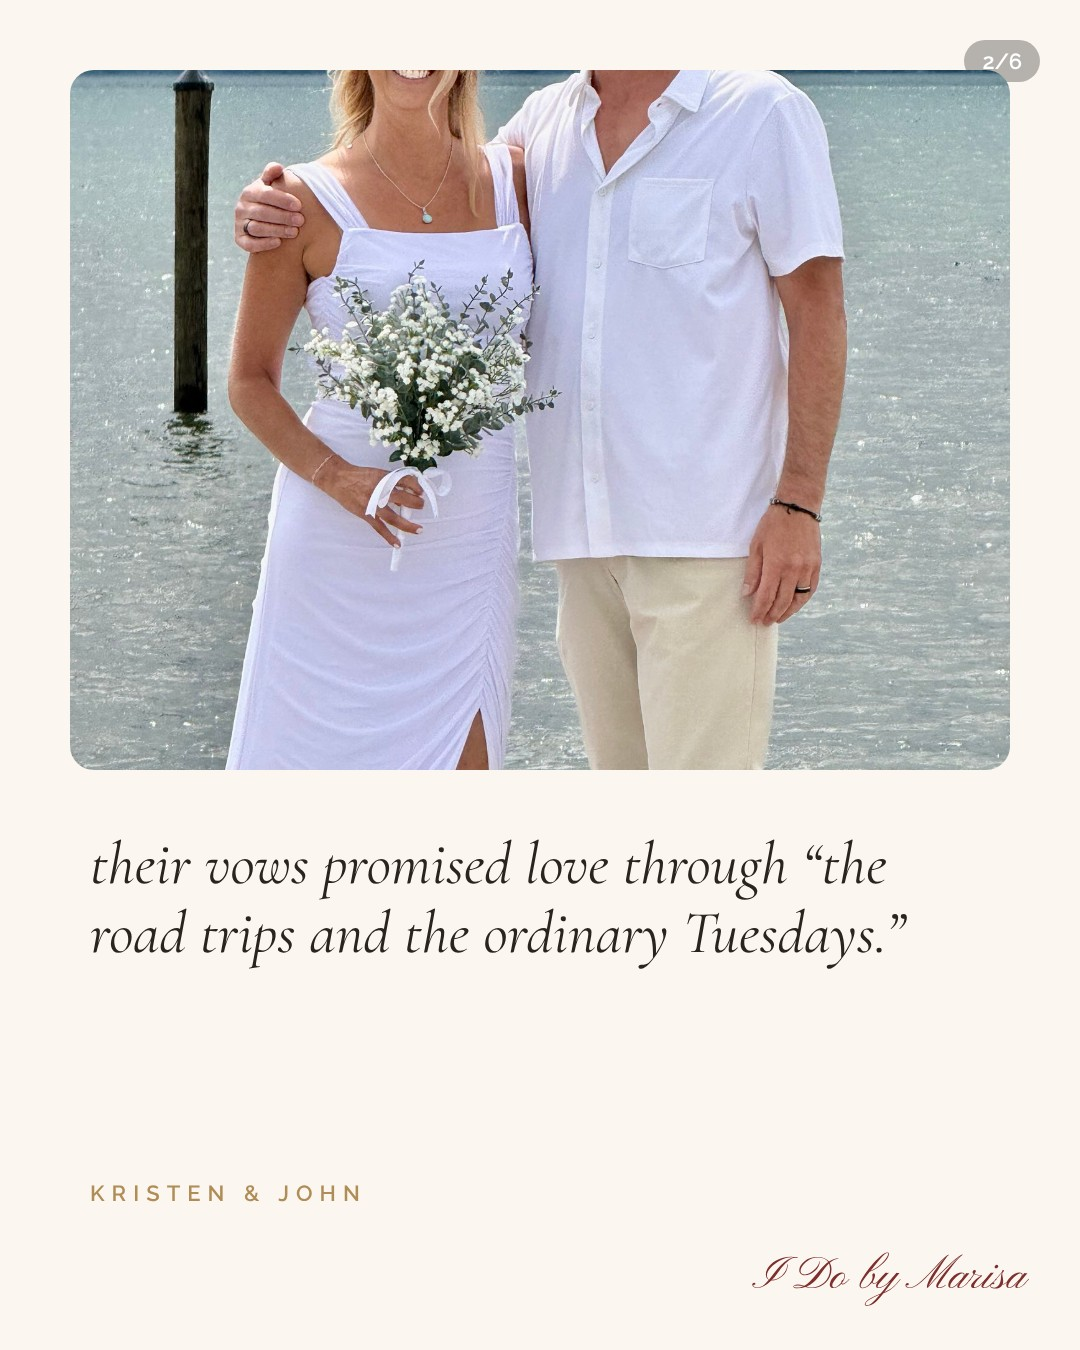
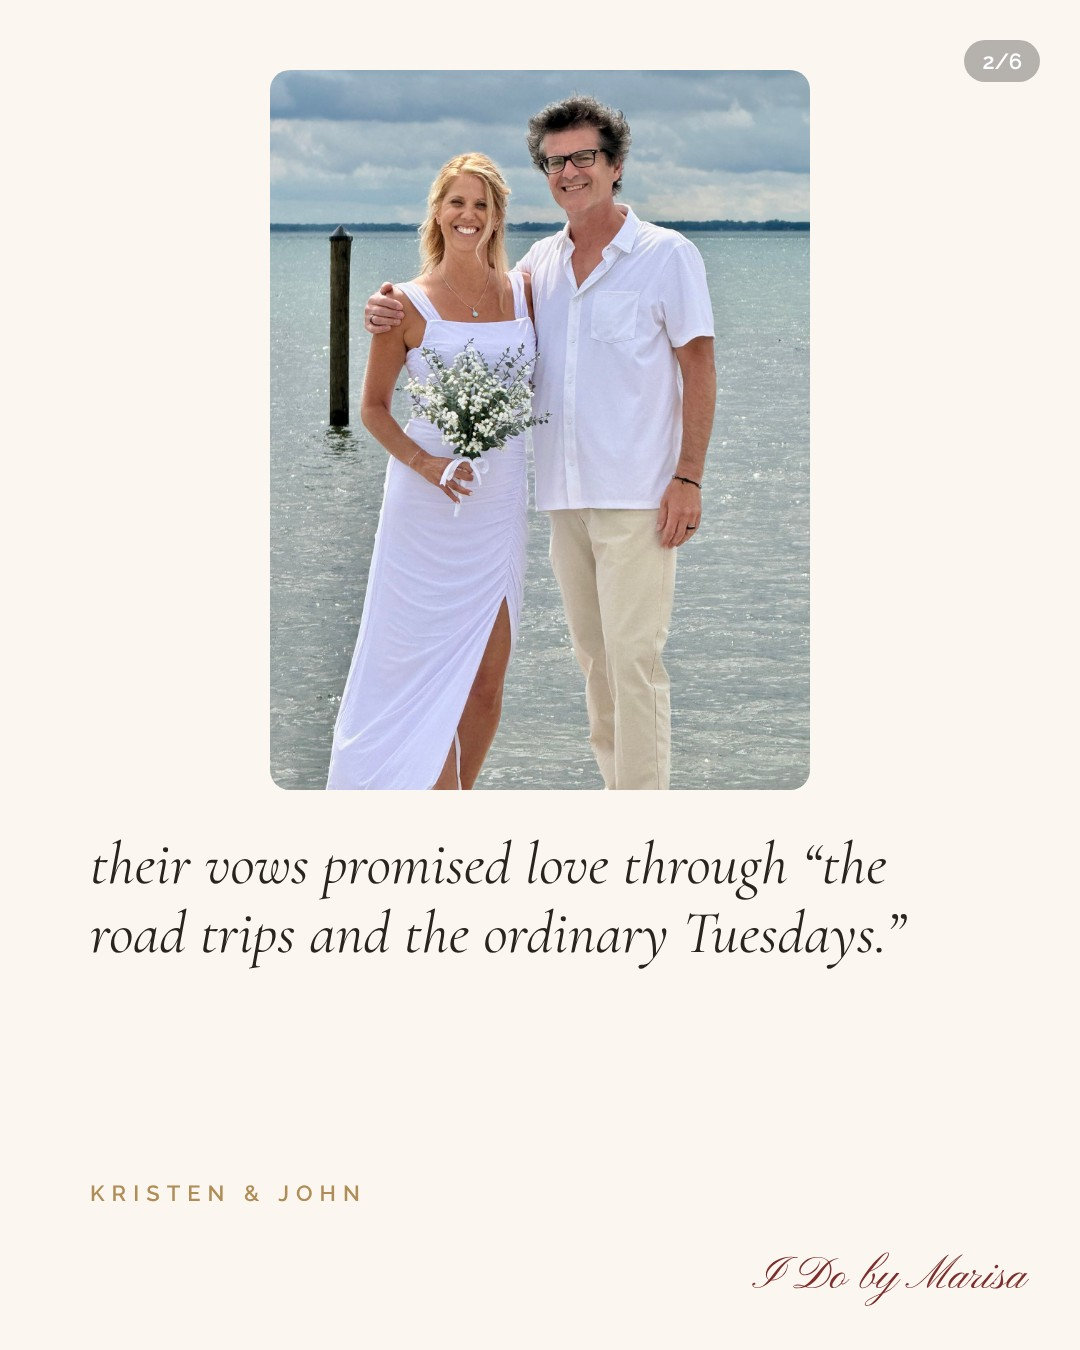
I Do: show full photos (no cropped heads) on hello, things-I-loved, profile and 2026 lines slides
Claude-Session: https://claude.ai/code/session_01CeoovJ21APbX2P2SCMoWFW

diff --git a/ido_cool/more/more.html b/ido_cool/more/more.html
@@ -13,7 +13,7 @@
 .dk .t{position:absolute;left:0;right:0;top:560px;font:italic 400 92px 'Cormorant Garamond'}
 .dk .sub{position:absolute;left:140px;right:140px;top:760px;font:400 34px/1.5 'Raleway';color:#d8cfc4}
 .ln{background:var(--cream)}
-.ln .ph{position:absolute;left:70px;right:70px;top:70px;height:700px;border-radius:24px;background-size:cover;background-position:center}
+.ln .ph{position:absolute;left:70px;right:70px;top:70px;height:720px;display:flex;align-items:center;justify-content:center}.ln .ph img{max-width:100%;max-height:100%;border-radius:20px}
 .ln .q{position:absolute;left:90px;right:90px;top:830px;font:italic 400 60px/1.15 'Cormorant Garamond'}
 .ln .who{position:absolute;left:90px;top:1180px;color:var(--gold)}
 .ln .mark{color:var(--wine)}
@@ -37,4 +37,4 @@
 .la .card small{margin-top:36px;color:var(--gold)}
 .la .foot{position:absolute;left:0;right:0;top:1100px;font:400 32px 'Raleway';color:#6d5d55}
 .la .mark{color:var(--wine)}
-</style></head><body><section class="s dk" id="lines0"><p class="y">2026</p><p class="t">in a few lines</p><p class="sub">a handful of my favorite lines from this year’s ceremonies, shared with the couples’ blessing 🤍</p><div class="mark" style="color:#D9C08F">I Do by Marisa</div></section><section class="s ln" id="lines1"><div class="n">2/6</div><div class="ph" style="background-image:url(img/kj.jpg);background-position:center"></div><p class="q">their vows promised love through “the road trips and the ordinary Tuesdays.”</p><p class="cap who">Kristen &amp; John</p><div class="mark">I Do by Marisa</div></section><section class="s ln" id="lines2"><div class="n">3/6</div><div class="ph" style="background-image:url(img/ar.jpg);background-position:center top"></div><p class="q">a forgotten shuttle, a missed ferry, and a Tigers playoff game. never the plan. always better.</p><p class="cap who">Amber &amp; Ryan</p><div class="mark">I Do by Marisa</div></section><section class="s ln" id="lines3"><div class="n">4/6</div><div class="ph" style="background-image:url(img/aa.jpg);background-position:center"></div><p class="q">her parents and both sets of her grandparents were married this same weekend. now it’s theirs too.</p><p class="cap who">Avance &amp; Alex</p><div class="mark">I Do by Marisa</div></section><section class="s ln" id="lines4"><div class="n">5/6</div><div class="ph" style="background-image:url(img/cd.jpg);background-position:center"></div><p class="q">in their world, a pinky promise is binding. (exceptions for gifts and surprises only.)</p><p class="cap who">Catherine &amp; David</p><div class="mark">I Do by Marisa</div></section><section class="s dk" id="lines5"><p class="t" style="top:330px">your story</p><p class="y" style="top:450px;font-size:200px">is next</p><p class="sub" style="top:820px">booking 2027 weddings in Metro Detroit, and ceremony scripts anywhere. i marry you, or i write the words for the friend who does.</p><div class="mark" style="color:#D9C08F">I Do by Marisa</div></section><section class="s cv" id="aecover"><div class="bg" style="background-image:url(img/book1.jpg)"></div><div class="fade"></div><div class="ttl"><p class="cap k">issue no. 01</p><p class="h">the Altar Edit</p><p class="d">what’s happening in weddings,<br>and what it means for your ceremony</p></div><div class="mark">I Do by Marisa</div></section><section class="s pn" id="tuecover"><div class="bg" style="background-image:url(img/book2.jpg);background-position:center 70%"></div><div class="panel"><p class="cap k">a new vow prompt every tuesday</p><p class="h" style="font-size:92px">Write about a Tuesday</p><p class="d">screenshot it · write 3 sentences · save them for your vows</p></div><div class="mark">I Do by Marisa</div></section><section class="s pn tall" id="bagcover"><div class="bg" style="background-image:url(img/bookcert.jpg)"></div><div class="panel"><p class="cap k">officiant edition</p><p class="h">what’s in my bag</p><p class="d">everything i bring to your ceremony</p></div><div class="mark" style="bottom:240px">I Do by Marisa</div></section><section class="s la" id="lisa"><p class="nm">Lisa Marie &amp; Anthony</p><p class="cap k">a gazebo · a september afternoon</p><div class="card"><p>no aisle, no music, no big production. they walked up holding hands, both in Chuck Taylors.</p><small class="cap">“it took us fifty years to find each other.” · Anthony</small></div><p class="foot">every word of this ceremony came from their story</p><div class="mark">I Do by Marisa</div></section></body></html>
+</style></head><body><section class="s dk" id="lines0"><p class="y">2026</p><p class="t">in a few lines</p><p class="sub">a handful of my favorite lines from this year’s ceremonies, shared with the couples’ blessing 🤍</p><div class="mark" style="color:#D9C08F">I Do by Marisa</div></section><section class="s ln" id="lines1"><div class="n">2/6</div><div class="ph"><img src="img/kj.jpg"></div><p class="q">their vows promised love through “the road trips and the ordinary Tuesdays.”</p><p class="cap who">Kristen &amp; John</p><div class="mark">I Do by Marisa</div></section><section class="s ln" id="lines2"><div class="n">3/6</div><div class="ph"><img src="img/ar.jpg"></div><p class="q">a forgotten shuttle, a missed ferry, and a Tigers playoff game. never the plan. always better.</p><p class="cap who">Amber &amp; Ryan</p><div class="mark">I Do by Marisa</div></section><section class="s ln" id="lines3"><div class="n">4/6</div><div class="ph"><img src="img/aa.jpg"></div><p class="q">her parents and both sets of her grandparents were married this same weekend. now it’s theirs too.</p><p class="cap who">Avance &amp; Alex</p><div class="mark">I Do by Marisa</div></section><section class="s ln" id="lines4"><div class="n">5/6</div><div class="ph"><img src="img/cd.jpg"></div><p class="q">in their world, a pinky promise is binding. (exceptions for gifts and surprises only.)</p><p class="cap who">Catherine &amp; David</p><div class="mark">I Do by Marisa</div></section><section class="s dk" id="lines5"><p class="t" style="top:330px">your story</p><p class="y" style="top:450px;font-size:200px">is next</p><p class="sub" style="top:820px">booking 2027 weddings in Metro Detroit, and ceremony scripts anywhere. i marry you, or i write the words for the friend who does.</p><div class="mark" style="color:#D9C08F">I Do by Marisa</div></section><section class="s cv" id="aecover"><div class="bg" style="background-image:url(img/book1.jpg)"></div><div class="fade"></div><div class="ttl"><p class="cap k">issue no. 01</p><p class="h">the Altar Edit</p><p class="d">what’s happening in weddings,<br>and what it means for your ceremony</p></div><div class="mark">I Do by Marisa</div></section><section class="s pn" id="tuecover"><div class="bg" style="background-image:url(img/book2.jpg);background-position:center 70%"></div><div class="panel"><p class="cap k">a new vow prompt every tuesday</p><p class="h" style="font-size:92px">Write about a Tuesday</p><p class="d">screenshot it · write 3 sentences · save them for your vows</p></div><div class="mark">I Do by Marisa</div></section><section class="s pn tall" id="bagcover"><div class="bg" style="background-image:url(img/bookcert.jpg)"></div><div class="panel"><p class="cap k">officiant edition</p><p class="h">what’s in my bag</p><p class="d">everything i bring to your ceremony</p></div><div class="mark" style="bottom:240px">I Do by Marisa</div></section><section class="s la" id="lisa"><p class="nm">Lisa Marie &amp; Anthony</p><p class="cap k">a gazebo · a september afternoon</p><div class="card"><p>no aisle, no music, no big production. they walked up holding hands, both in Chuck Taylors.</p><small class="cap">“it took us fifty years to find each other.” · Anthony</small></div><p class="foot">every word of this ceremony came from their story</p><div class="mark">I Do by Marisa</div></section></body></html>

diff --git a/ido_cool/trend2.html b/ido_cool/trend2.html
@@ -8,12 +8,12 @@
 .pf{background:var(--blush);padding:56px 70px}
 .pf .logo{bottom:14px}
 .pf .name{font:600 64px 'Raleway';letter-spacing:-.01em;margin:0}
-.pf .ph{height:380px;border-radius:30px;margin:26px 0 22px;background:repeating-linear-gradient(120deg,#d9c3bb 0 30px,#e4cfc8 30px 60px);display:flex;align-items:center;justify-content:center;font:600 24px 'Raleway';letter-spacing:.2em;color:#8a6f66}
+.pf .ph{height:470px;border-radius:30px;margin:26px 0 22px;background:repeating-linear-gradient(120deg,#d9c3bb 0 30px,#e4cfc8 30px 60px);display:flex;align-items:center;justify-content:center;font:600 24px 'Raleway';letter-spacing:.2em;color:#8a6f66}
 .chips{display:flex;flex-wrap:wrap;gap:12px;margin-bottom:22px}
 .chips span{background:#fff;border-radius:999px;padding:12px 22px;font:500 24px 'Raleway'}
-.card{background:#fff;border-radius:30px;padding:28px 36px;margin-bottom:18px;position:relative}
+.card{background:#fff;border-radius:30px;padding:20px 34px;margin-bottom:14px;position:relative}
 .card b{display:block;font:600 22px 'Raleway';margin-bottom:8px}
-.card p{margin:0;font:400 44px/1.12 'Cormorant Garamond'}
+.card p{margin:0;padding-right:70px;font:400 38px/1.1 'Cormorant Garamond'}
 .card i{position:absolute;right:26px;bottom:20px;width:56px;height:56px;border-radius:50%;border:2px solid var(--wine);color:var(--wine);display:grid;place-items:center;font:normal 30px 'Raleway'}
 /* flags */
 .fl{background:var(--cream);padding:80px 70px}
@@ -38,4 +38,4 @@
 .op p{margin:0 0 46px;font:400 52px/1.15 'Cormorant Garamond';padding-left:66px;position:relative}
 .op p::before{content:'🔥';position:absolute;left:0;top:2px;font-size:36px}
 .op .logo{color:var(--gold2)}
-</style></head><body><section class="s pf" id="profile"><p class="name">Marisa, your officiant</p><div class="ph" style="background:url(photos/me/officiant_01.jpg) center 22%/cover"></div><div class="chips"><span>📍 Metro Detroit</span><span>💍 Ordained minister</span><span>🎤 Officiant</span><span>✍ Ceremony writer</span></div><div class="card"><b>My simple pleasures</b><p>a 20-minute ceremony, a script in 14-point font, the pause right after the kiss</p><i>♡</i></div><div class="card"><b>I’ll fall for you if</b><p>you tell me about a random Tuesday</p><i>♡</i></div><div class="card"><b>Together, we could</b><p>write your ceremony. then i marry you, or coach the friend who does.</p><i>♡</i></div><div class="logo">I Do by Marisa</div></section><section class="s fl" id="flags"><div class="cap" style="color:var(--gold);margin:0 0 16px">officiant edition</div><h1>green flags,<br>red flags</h1><div class="two"><div class="g"><h2>GREEN FLAGS</h2><p>asks how you met before anything else</p><p>times the ceremony to the minute</p><p>practices out loud (twice)</p><p>brings a printed script</p><p>knows how to pronounce every name</p></div><div class="r"><h2>RED FLAGS</h2><p>your names swapped into a template</p><p>reads off their phone</p><p>makes it about themselves</p><p>“dearly beloved” three times</p><p>wings it</p></div></div><div class="logo">I Do by Marisa</div></section><section class="s bg" id="bingo"><h1>ceremony bingo</h1><div class="cap sub">screenshot it · bring it to your next wedding</div><div class="board"><div>someone cries before the processional</div><div>the ring bearer goes rogue</div><div>dad cries first</div><div>a phone goes off</div><div>wind vs. the veil</div><div>flower girl stops mid-aisle</div><div>groom’s voice cracks</div><div>someone says “dearly beloved”</div><div>a guest whispers “aww” too loud</div><div>the officiant gets a laugh</div><div>a dog in the wedding</div><div>mom’s tissue is already out</div><div class="fr">I do</div><div>someone forgot the rings were in their pocket</div><div>perfect golden hour light</div><div>the kiss gets a standing ovation</div><div>a toddler narrates</div><div>vows that mention a tuesday</div><div>the couple whispers a secret joke</div><div>grandma steals the show</div><div>happy tears from the officiant</div><div>someone trips (gracefully)</div><div>the “i do” cracks the room up</div><div>the recessional dance</div><div>everyone cries. everyone.</div></div><div class="logo" style="bottom:28px">I Do by Marisa</div></section><section class="s op" id="opinions"><div class="cap" style="color:var(--gold2);margin:0 0 18px">officiant edition</div><h1>unpopular<br><span>opinions</span></h1><p>your ceremony should be shorter than your cocktail hour</p><p>vows are allowed to be funny</p><p>you don’t need a unity anything</p><p>the processional song matters more than the centerpieces</p><p>your officiant should know your story, not just your names</p><div class="logo">I Do by Marisa</div></section></body></html>
+</style></head><body><section class="s pf" id="profile"><p class="name">Marisa, your officiant</p><div class="ph" style="background:url(photos/me/officiant_01.jpg) center 12%/cover"></div><div class="chips"><span>📍 Metro Detroit</span><span>💍 Ordained minister</span><span>🎤 Officiant</span><span>✍ Ceremony writer</span></div><div class="card"><b>My simple pleasures</b><p>a 20-minute ceremony, a script in 14-point font, the pause right after the kiss</p><i>♡</i></div><div class="card"><b>I’ll fall for you if</b><p>you tell me about a random Tuesday</p><i>♡</i></div><div class="card"><b>Together, we could</b><p>write your ceremony. then i marry you, or coach the friend who does.</p><i>♡</i></div><div class="logo">I Do by Marisa</div></section><section class="s fl" id="flags"><div class="cap" style="color:var(--gold);margin:0 0 16px">officiant edition</div><h1>green flags,<br>red flags</h1><div class="two"><div class="g"><h2>GREEN FLAGS</h2><p>asks how you met before anything else</p><p>times the ceremony to the minute</p><p>practices out loud (twice)</p><p>brings a printed script</p><p>knows how to pronounce every name</p></div><div class="r"><h2>RED FLAGS</h2><p>your names swapped into a template</p><p>reads off their phone</p><p>makes it about themselves</p><p>“dearly beloved” three times</p><p>wings it</p></div></div><div class="logo">I Do by Marisa</div></section><section class="s bg" id="bingo"><h1>ceremony bingo</h1><div class="cap sub">screenshot it · bring it to your next wedding</div><div class="board"><div>someone cries before the processional</div><div>the ring bearer goes rogue</div><div>dad cries first</div><div>a phone goes off</div><div>wind vs. the veil</div><div>flower girl stops mid-aisle</div><div>groom’s voice cracks</div><div>someone says “dearly beloved”</div><div>a guest whispers “aww” too loud</div><div>the officiant gets a laugh</div><div>a dog in the wedding</div><div>mom’s tissue is already out</div><div class="fr">I do</div><div>someone forgot the rings were in their pocket</div><div>perfect golden hour light</div><div>the kiss gets a standing ovation</div><div>a toddler narrates</div><div>vows that mention a tuesday</div><div>the couple whispers a secret joke</div><div>grandma steals the show</div><div>happy tears from the officiant</div><div>someone trips (gracefully)</div><div>the “i do” cracks the room up</div><div>the recessional dance</div><div>everyone cries. everyone.</div></div><div class="logo" style="bottom:28px">I Do by Marisa</div></section><section class="s op" id="opinions"><div class="cap" style="color:var(--gold2);margin:0 0 18px">officiant edition</div><h1>unpopular<br><span>opinions</span></h1><p>your ceremony should be shorter than your cocktail hour</p><p>vows are allowed to be funny</p><p>you don’t need a unity anything</p><p>the processional song matters more than the centerpieces</p><p>your officiant should know your story, not just your names</p><div class="logo">I Do by Marisa</div></section></body></html>

diff --git a/ido_cool/me_posts.html b/ido_cool/me_posts.html
@@ -1,7 +1,8 @@
 <!doctype html><html><head><meta charset="utf-8"><link href="https://fonts.googleapis.com/css2?family=Pinyon+Script&display=swap" rel="stylesheet"><style>
-body{margin:0}.s{width:1080px;height:1350px;position:relative;overflow:hidden;background-size:cover;background-position:center 30%}
-.logo{position:absolute;right:48px;bottom:34px;font:400 46px 'Pinyon Script';color:#FBF7F0;text-shadow:0 1px 10px rgba(0,0,0,.35)}
+body{margin:0}.s{width:1080px;height:1350px;position:relative;overflow:hidden;background:#FBF7F0;display:flex;align-items:flex-start;justify-content:center;padding-top:50px}
+.s img{width:930px;border-radius:18px}
+.logo{position:absolute;right:56px;bottom:30px;font:400 46px 'Pinyon Script';color:#7E2E2C}
 </style></head><body>
-<section class="s" id="hello" style="background-image:url(photos/me/officiant_12.jpg);background-position:center 0%"><div class="logo">I Do by Marisa</div></section>
-<section class="s" id="loved" style="background-image:url(photos/me/officiant_07.jpg);background-position:center 20%"><div class="logo">I Do by Marisa</div></section>
+<section class="s" id="hello"><img src="photos/me/officiant_12.jpg"><div class="logo">I Do by Marisa</div></section>
+<section class="s" id="loved"><img src="photos/me/officiant_07.jpg"><div class="logo">I Do by Marisa</div></section>
 </body></html>

diff --git a/ido_cool/more/build.py b/ido_cool/more/build.py
@@ -16,7 +16,7 @@ CSS = """*{box-sizing:border-box}body{margin:0;background:#777}p{margin:0}
 .dk .t{position:absolute;left:0;right:0;top:560px;font:italic 400 92px 'Cormorant Garamond'}
 .dk .sub{position:absolute;left:140px;right:140px;top:760px;font:400 34px/1.5 'Raleway';color:#d8cfc4}
 .ln{background:var(--cream)}
-.ln .ph{position:absolute;left:70px;right:70px;top:70px;height:700px;border-radius:24px;background-size:cover;background-position:center}
+.ln .ph{position:absolute;left:70px;right:70px;top:70px;height:720px;display:flex;align-items:center;justify-content:center}.ln .ph img{max-width:100%;max-height:100%;border-radius:20px}
 .ln .q{position:absolute;left:90px;right:90px;top:830px;font:italic 400 60px/1.15 'Cormorant Garamond'}
 .ln .who{position:absolute;left:90px;top:1180px;color:var(--gold)}
 .ln .mark{color:var(--wine)}
@@ -50,7 +50,7 @@ L = [('kj.jpg', 'their vows promised love through “the road trips and the ordi
      ('aa.jpg', 'her parents and both sets of her grandparents were married this same weekend. now it’s theirs too.', 'Avance &amp; Alex'),
      ('cd.jpg', 'in their world, a pinky promise is binding. (exceptions for gifts and surprises only.)', 'Catherine &amp; David')]
 for i, (img, q, who) in enumerate(L, 1):
-    S.append(f'<section class="s ln" id="lines{i}"><div class="n">{i+1}/6</div><div class="ph" style="background-image:url(img/{img.split(chr(34))[0]});background-position:{'center top' if 'data-top' in img else 'center'}"></div><p class="q">{q}</p><p class="cap who">{who}</p>{M}</section>')
+    S.append(f'<section class="s ln" id="lines{i}"><div class="n">{i+1}/6</div><div class="ph"><img src="img/{img.split(chr(34))[0]}"></div><p class="q">{q}</p><p class="cap who">{who}</p>{M}</section>')
 S.append('<section class="s dk" id="lines5"><p class="t" style="top:330px">your story</p><p class="y" style="top:450px;font-size:200px">is next</p>'
          '<p class="sub" style="top:820px">booking 2027 weddings in Metro Detroit, and ceremony scripts anywhere. i marry you, or i write the words for the friend who does.</p><div class="mark" style="color:#D9C08F">I Do by Marisa</div></section>')
 S.append(f'<section class="s cv" id="aecover"><div class="bg" style="background-image:url(img/book1.jpg)"></div><div class="fade"></div><div class="ttl"><p class="cap k">issue no. 01</p><p class="h">the Altar Edit</p><p class="d">what’s happening in weddings,<br>and what it means for your ceremony</p></div>{M}</section>')

diff --git a/ido_cool/trend2.py b/ido_cool/trend2.py
@@ -11,12 +11,12 @@ CSS = """
 .pf{background:var(--blush);padding:56px 70px}
 .pf .logo{bottom:14px}
 .pf .name{font:600 64px 'Raleway';letter-spacing:-.01em;margin:0}
-.pf .ph{height:380px;border-radius:30px;margin:26px 0 22px;background:repeating-linear-gradient(120deg,#d9c3bb 0 30px,#e4cfc8 30px 60px);display:flex;align-items:center;justify-content:center;font:600 24px 'Raleway';letter-spacing:.2em;color:#8a6f66}
+.pf .ph{height:470px;border-radius:30px;margin:26px 0 22px;background:repeating-linear-gradient(120deg,#d9c3bb 0 30px,#e4cfc8 30px 60px);display:flex;align-items:center;justify-content:center;font:600 24px 'Raleway';letter-spacing:.2em;color:#8a6f66}
 .chips{display:flex;flex-wrap:wrap;gap:12px;margin-bottom:22px}
 .chips span{background:#fff;border-radius:999px;padding:12px 22px;font:500 24px 'Raleway'}
-.card{background:#fff;border-radius:30px;padding:28px 36px;margin-bottom:18px;position:relative}
+.card{background:#fff;border-radius:30px;padding:20px 34px;margin-bottom:14px;position:relative}
 .card b{display:block;font:600 22px 'Raleway';margin-bottom:8px}
-.card p{margin:0;font:400 44px/1.12 'Cormorant Garamond'}
+.card p{margin:0;padding-right:70px;font:400 38px/1.1 'Cormorant Garamond'}
 .card i{position:absolute;right:26px;bottom:20px;width:56px;height:56px;border-radius:50%;border:2px solid var(--wine);color:var(--wine);display:grid;place-items:center;font:normal 30px 'Raleway'}
 /* flags */
 .fl{background:var(--cream);padding:80px 70px}
@@ -44,7 +44,7 @@ CSS = """
 """
 S = []
 S.append('<section class="s pf" id="profile"><p class="name">Marisa, your officiant</p>'
- '<div class="ph" style="background:url(photos/me/officiant_01.jpg) center 22%/cover"></div>'
+ '<div class="ph" style="background:url(photos/me/officiant_01.jpg) center 12%/cover"></div>'
  '<div class="chips"><span>📍 Metro Detroit</span><span>💍 Ordained minister</span><span>🎤 Officiant</span><span>✍ Ceremony writer</span></div>'
  '<div class="card"><b>My simple pleasures</b><p>a 20-minute ceremony, a script in 14-point font, the pause right after the kiss</p><i>♡</i></div>'
  '<div class="card"><b>I’ll fall for you if</b><p>you tell me about a random Tuesday</p><i>♡</i></div>'
